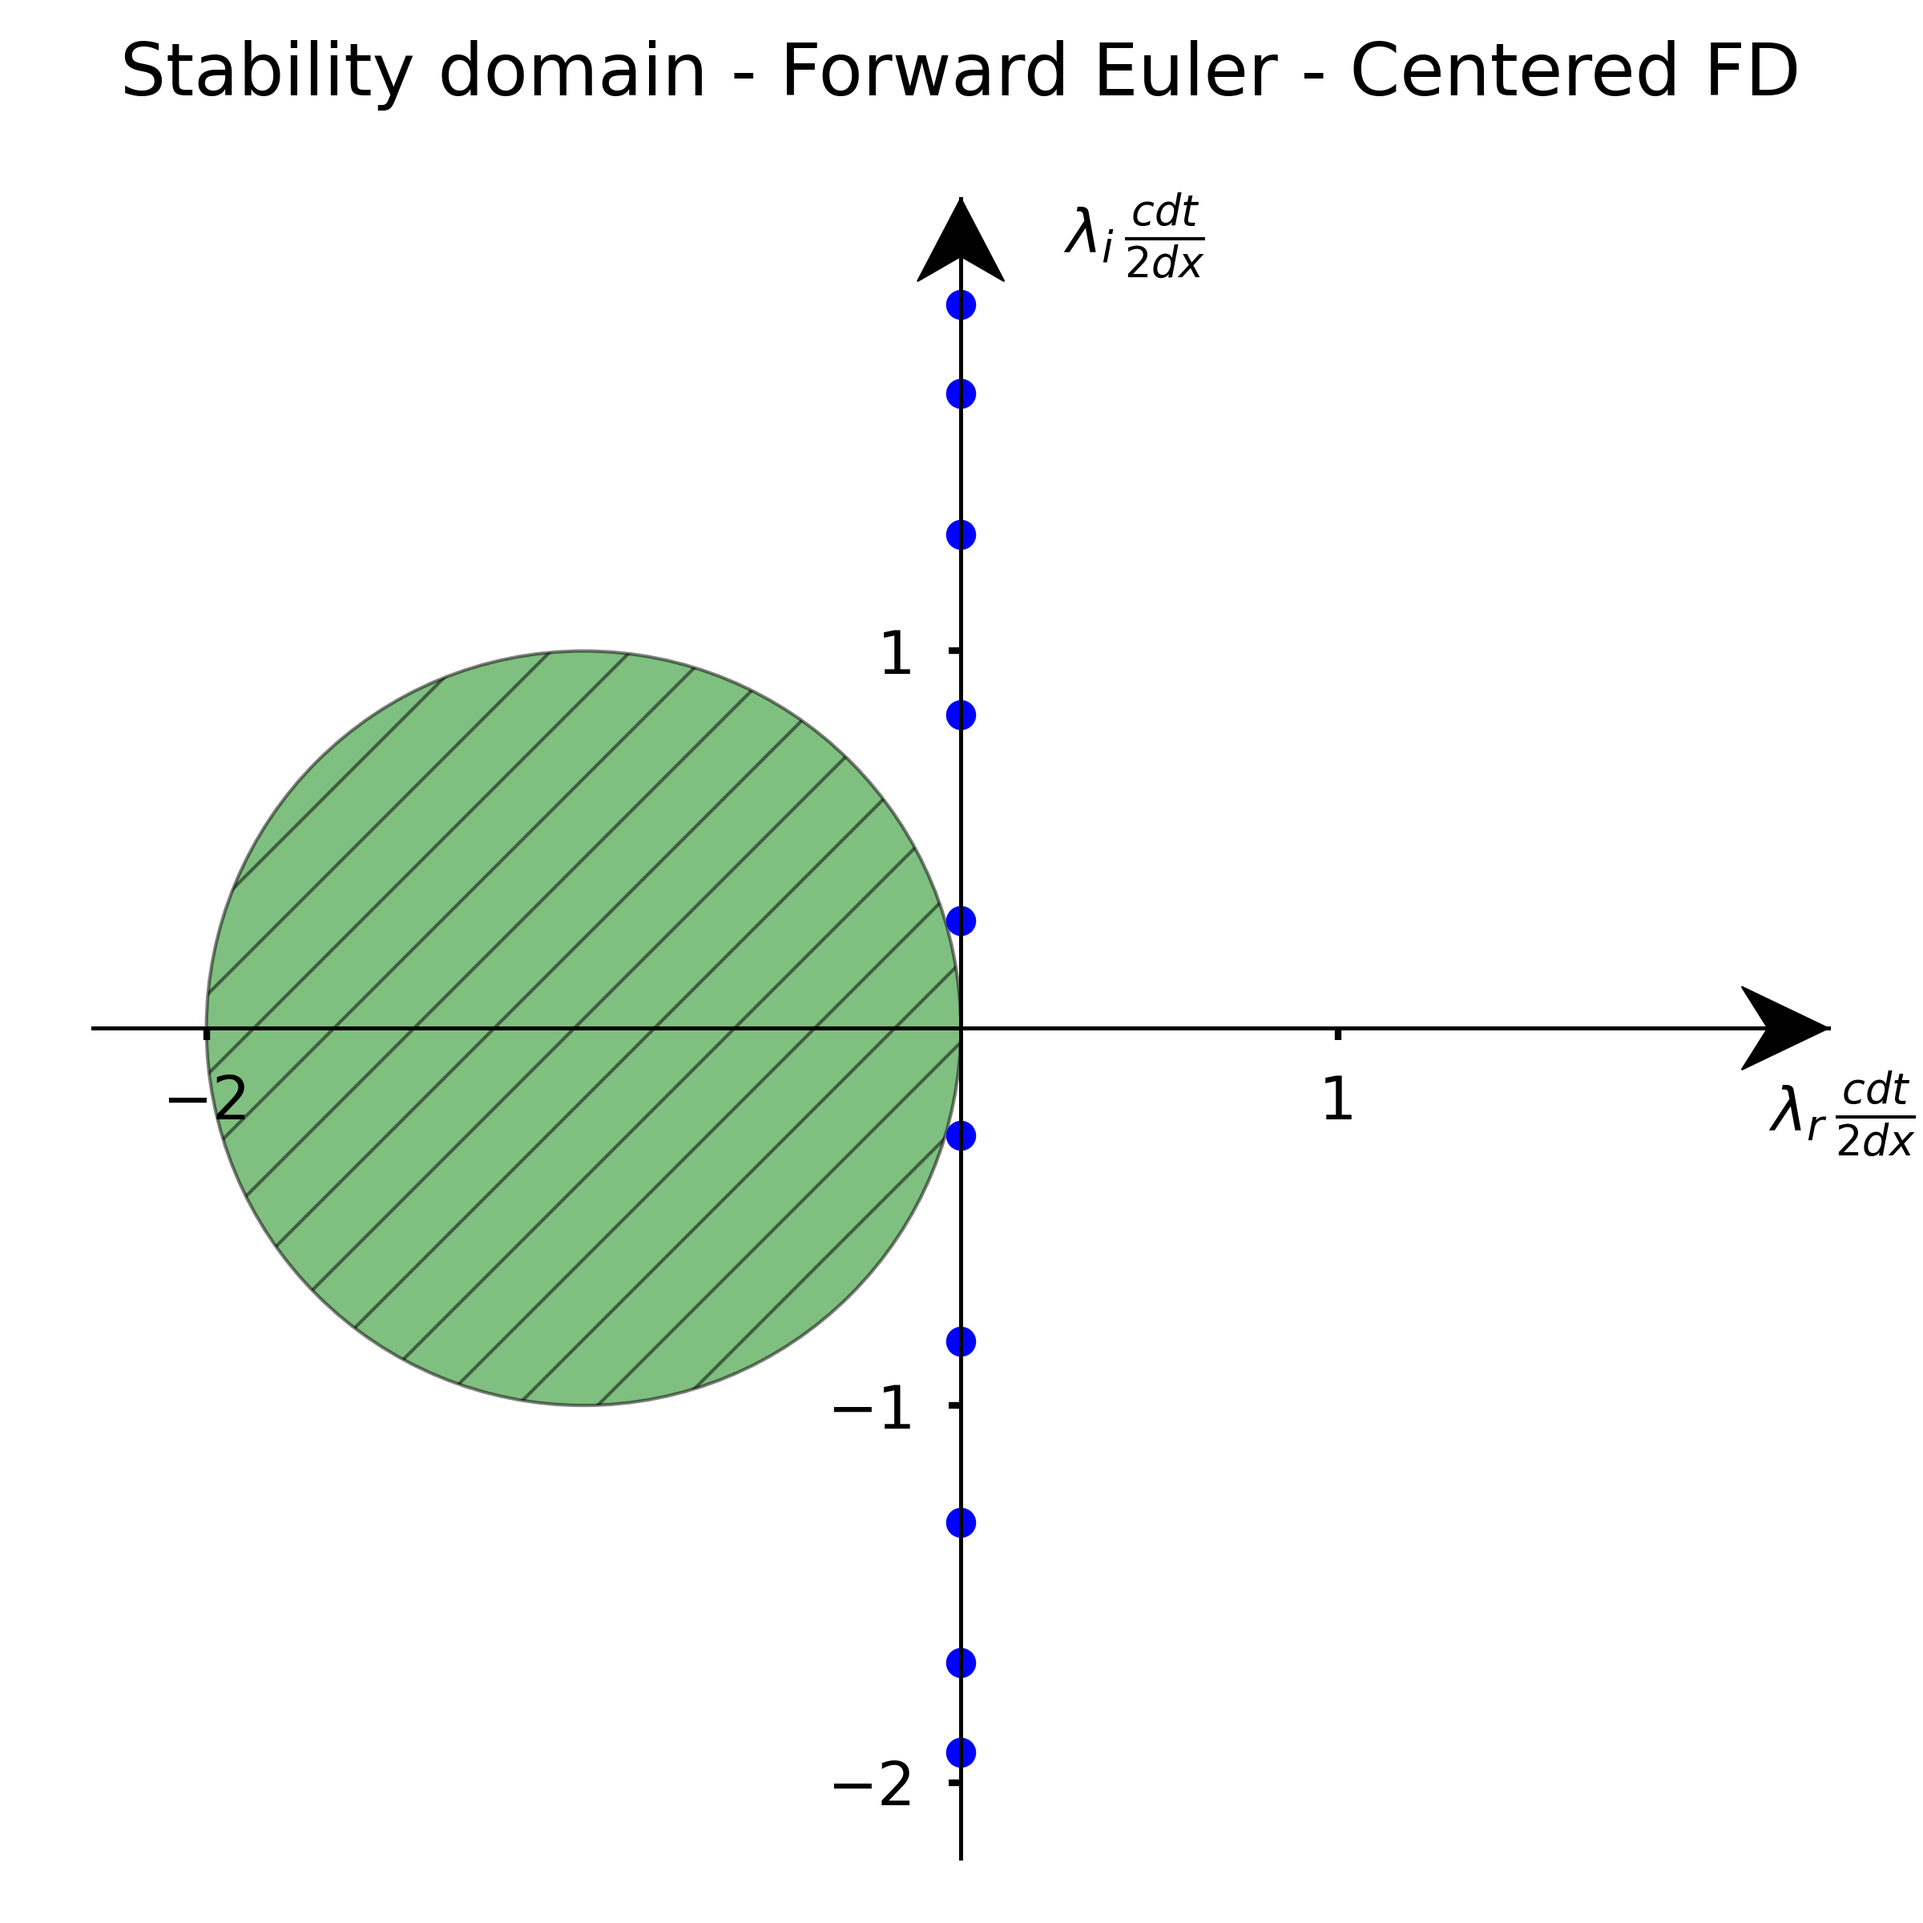
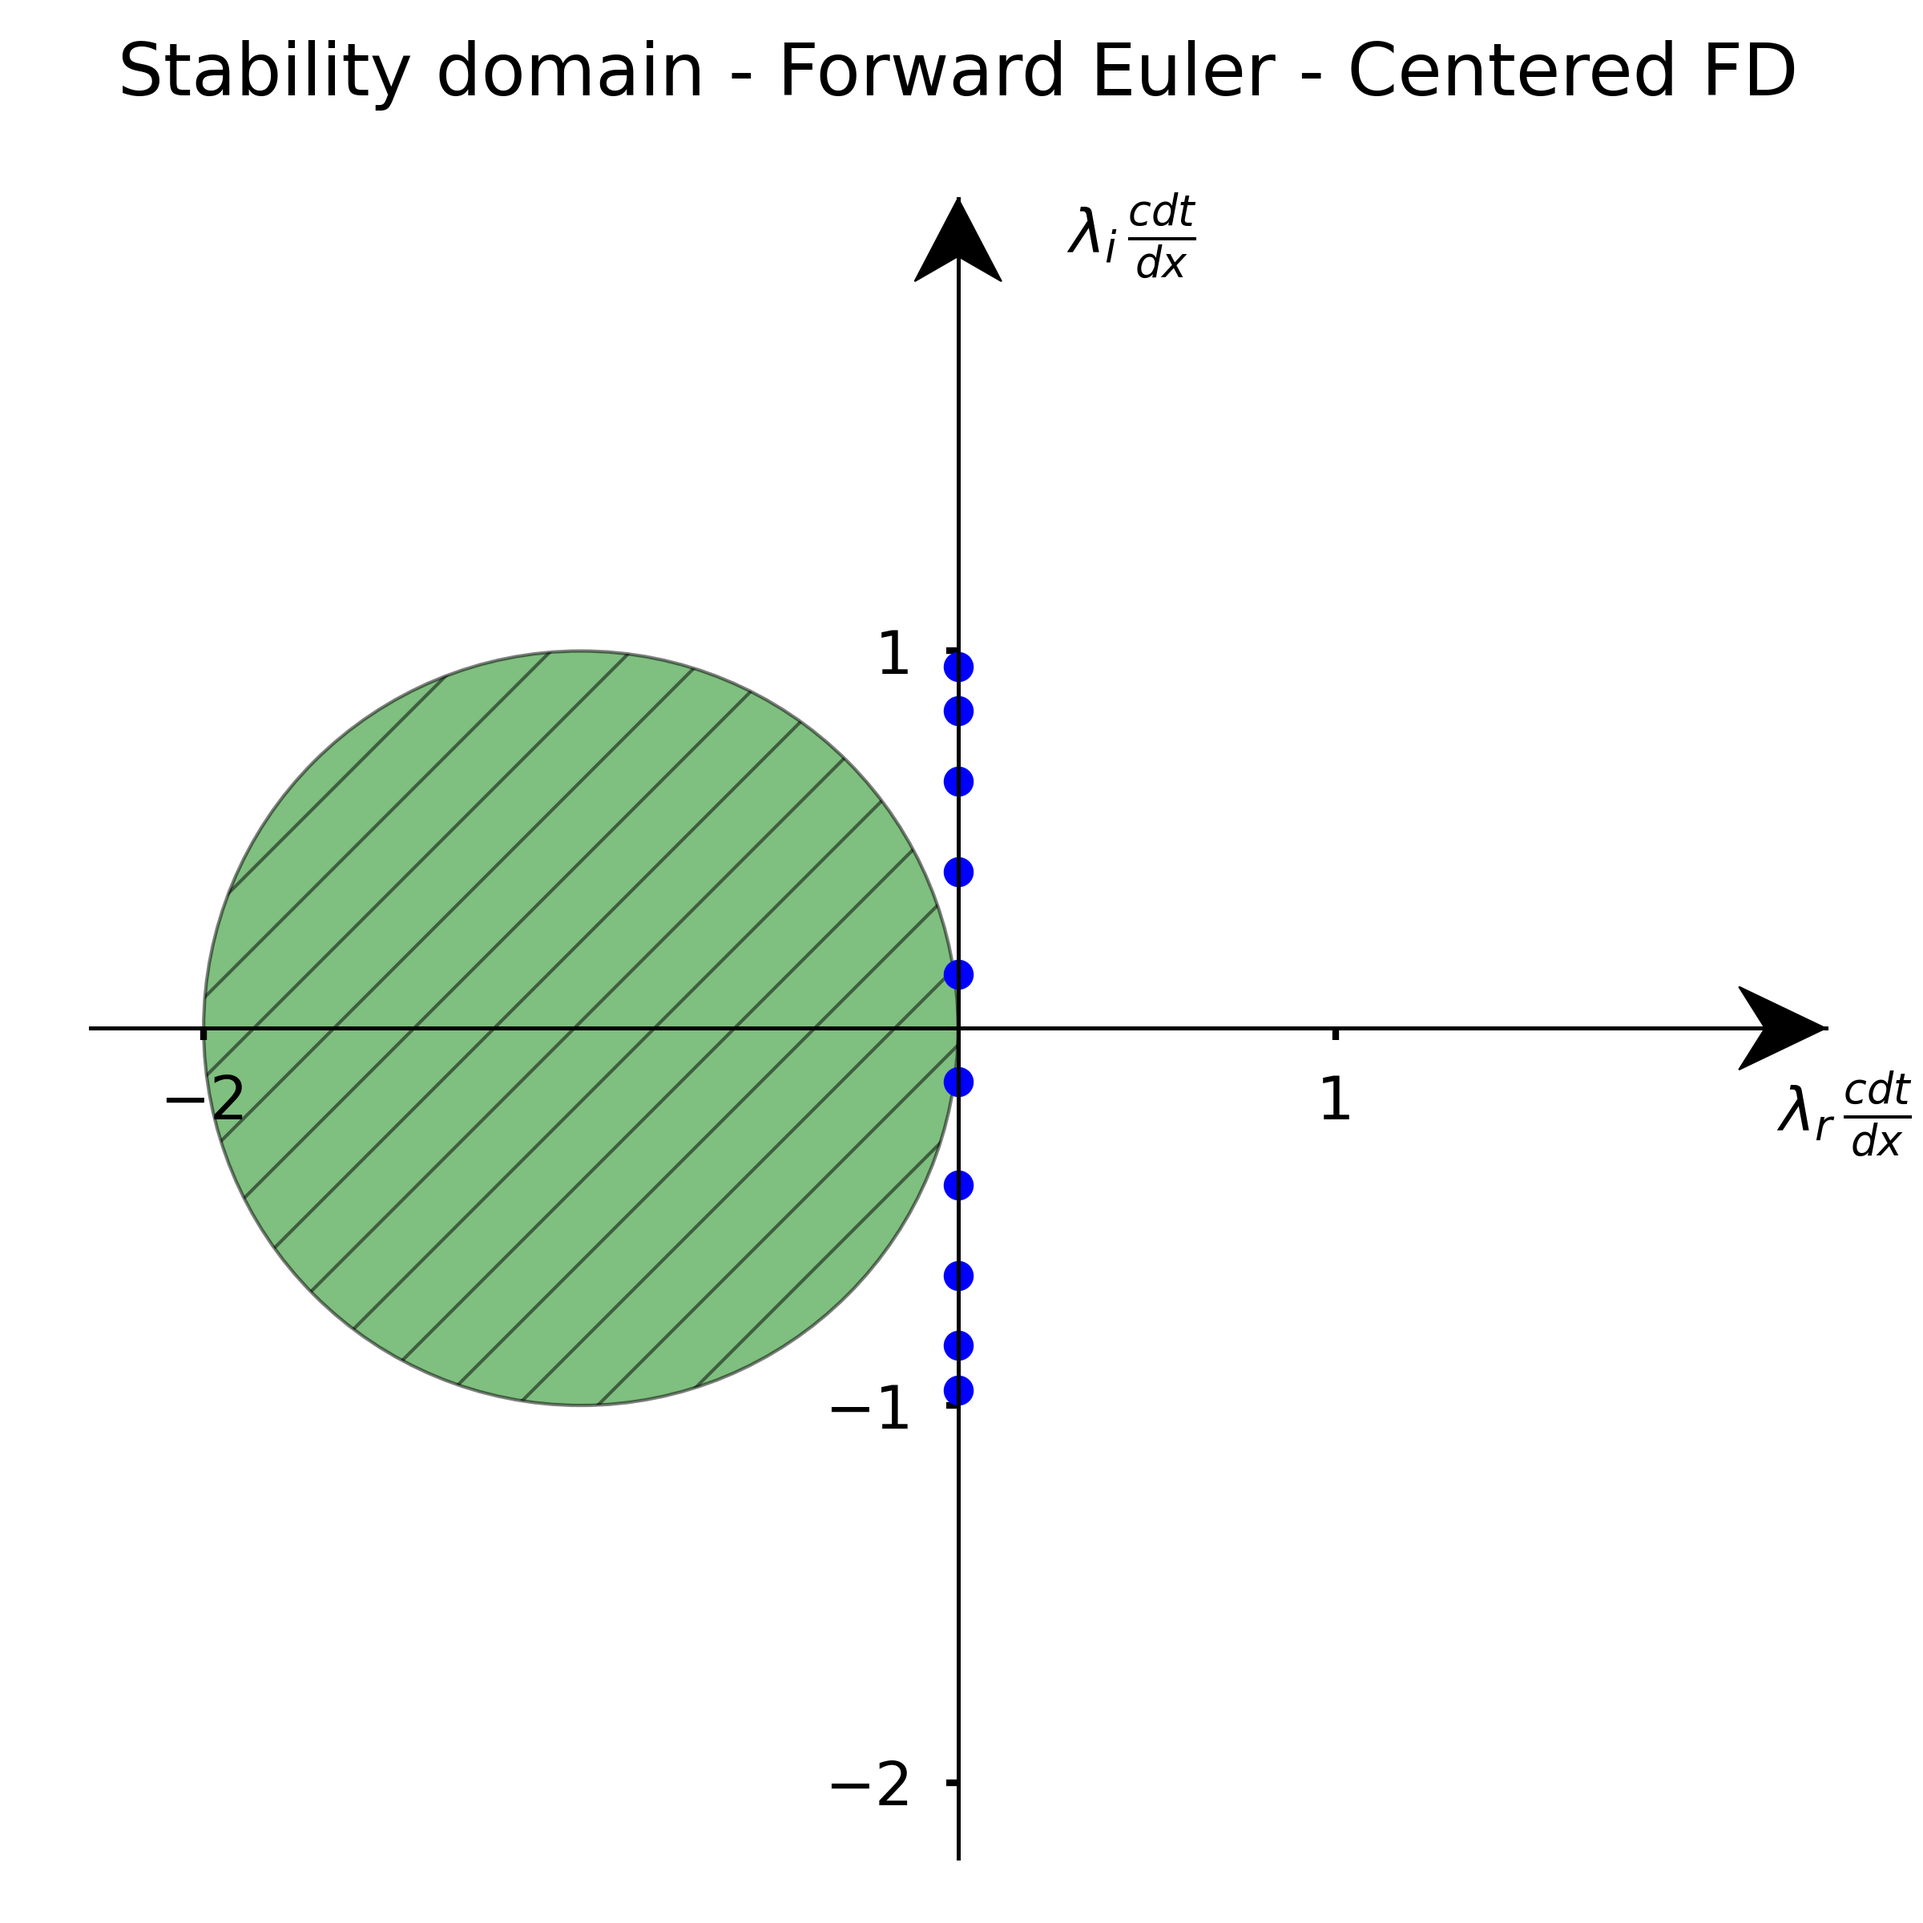
WIP

diff --git a/notebooks/drawings/supportPlots.md b/notebooks/drawings/supportPlots.md
@@ -13,6 +13,11 @@ jupyter:
     name: python3
 ---
 
+<!-- #region toc=true -->
+<h1>Table of Contents<span class="tocSkip"></span></h1>
+<div class="toc"><ul class="toc-item"><li><span><a href="#Forward-Euler" data-toc-modified-id="Forward-Euler-1"><span class="toc-item-num">1&nbsp;&nbsp;</span>Forward Euler</a></span></li><li><span><a href="#RK2" data-toc-modified-id="RK2-2"><span class="toc-item-num">2&nbsp;&nbsp;</span>RK2</a></span></li><li><span><a href="#Stability-map-for-forward-Euler---centered-FD" data-toc-modified-id="Stability-map-for-forward-Euler---centered-FD-3"><span class="toc-item-num">3&nbsp;&nbsp;</span>Stability map for forward Euler - centered FD</a></span></li><li><span><a href="#Logo" data-toc-modified-id="Logo-4"><span class="toc-item-num">4&nbsp;&nbsp;</span>Logo</a></span></li><li><span><a href="#Logo" data-toc-modified-id="Logo-5"><span class="toc-item-num">5&nbsp;&nbsp;</span>Logo</a></span></li></ul></div>
+<!-- #endregion -->
+
 ```python
 import numpy as np
 
@@ -169,8 +174,8 @@ ax.arrow(0., ymin, 0., ymax-ymin, fc='k', ec='k', lw=0.5,
          head_width=1./20.*(xmax-xmin), head_length=1./20.*(ymax-ymin),
          overhang = 0.3, length_includes_head= True, clip_on = False)
 
-ax.set_xlabel(r'$\lambda_r\, \frac{cdt}{2dx}$', horizontalalignment='right')
-ax.set_ylabel(r'$\lambda_i\, \frac{cdt}{2dx}$', rotation=0)
+ax.set_xlabel(r'$\lambda_r\, \frac{cdt}{dx}$', horizontalalignment='right')
+ax.set_ylabel(r'$\lambda_i\, \frac{cdt}{dx}$', rotation=0)
 
 ax.yaxis.set_label_coords(0.6, 0.95)
 ax.xaxis.set_label_coords(1.05, 0.475)
@@ -189,10 +194,152 @@ ax.tick_params(width=2, pad=10)
 m = 10
 k = np.arange(1,m+1)
 x = np.zeros(m)
-y = 2*np.cos(np.pi*k/(m+1))
+y = -np.cos(np.pi*k/(m+1))
 
 ax.plot(x,y,'o', color='blue')
 fig.savefig('../figures/PDEStabilityMap.png', dpi=300)
+```
+
+## Modified wave number
+
+```python
+# Let's configure the size of the figure
+# (in inches) to make it a square and bigger.
+fig, ax = plt.subplots(figsize=(8, 8))
+
+circle = plt.Circle((-1, 0), 1, ec='k', fc='green', alpha=0.5, hatch='/')
+
+ax.add_artist(circle)
+
+ax.set_aspect(1)
+
+ax.spines['left'].set_position('center')
+ax.spines['bottom'].set_position('center')
+ax.spines['right'].set_visible(False)
+ax.spines['top'].set_visible(False)
+
+xmin, xmax = -2.3, 2.3
+ymin, ymax = -2.2, 2.2
+
+ax.set_xlim(xmin ,xmax)
+ax.set_ylim(ymin, ymax)
+
+
+ax.arrow(xmin, 0., xmax-xmin, 0., fc='k', ec='k', lw=0.5,
+         head_width=1./20.*(ymax-ymin), head_length=1./20.*(xmax-xmin),
+         overhang = 0.3, length_includes_head= True, clip_on = False)
+
+ax.arrow(0., ymin, 0., ymax-ymin, fc='k', ec='k', lw=0.5,
+         head_width=1./20.*(xmax-xmin), head_length=1./20.*(ymax-ymin),
+         overhang = 0.3, length_includes_head= True, clip_on = False)
+
+ax.set_xlabel(r'$\lambda_r\, \frac{cdt}{dx}$', horizontalalignment='right')
+ax.set_ylabel(r'$\lambda_i\, \frac{cdt}{dx}$', rotation=0)
+
+ax.yaxis.set_label_coords(0.6, 0.95)
+ax.xaxis.set_label_coords(1.05, 0.475)
+
+ax.set_title('Stability domain - Forward Euler - Centered FD', y=1.05)
+
+
+ax.set_xticks((-2, 1))
+ax.set_yticks((-1, 1))
+
+
+ax.tick_params(width=2, pad=10)
+
+
+# Eigenvalues
+L = 1.
+nx = 10
+dx = L/(nx-1)
+
+m = 10
+k = 2*np.pi/L * np.arange(0,m)
+
+# Forward Euler - Centered FD
+x = np.zeros(m)
+y = -np.sin(k*dx)
+
+ax.plot(x,y,'o', color='blue')
+
+# Forward Euler - Forward FD
+lam = 1.-np.exp(1j*k*dx) 
+ax.plot(lam.real, lam.imag,'o', color='red')
+
+# Forward Euler - Backward FD
+lam = np.exp(-1j*k*dx)-1.
+ax.plot(lam.real, lam.imag,'o', color='black')
+
+fig.savefig('../figures/modified_k.png', dpi=300)
+```
+
+## Logo
+
+```python
+# Let's configure the size of the figure
+# (in inches) to make it a square and bigger.
+fig, ax = plt.subplots(figsize=(8, 8))
+
+circle = plt.Circle((-1, 0), 1, ec='k', fc='green', alpha=0.5, hatch='/')
+
+ax.add_artist(circle)
+
+ax.set_aspect(1)
+
+ax.spines['left'].set_position('center')
+ax.spines['bottom'].set_position('center')
+ax.spines['right'].set_visible(False)
+ax.spines['top'].set_visible(False)
+
+xmin, xmax = -2.3, 2.3
+ymin, ymax = -2.2, 2.2
+
+ax.set_xlim(xmin ,xmax)
+ax.set_ylim(ymin, ymax)
+
+
+ax.arrow(xmin, 0., xmax-xmin, 0., fc='k', ec='k', lw=0.5,
+         head_width=1./40.*(ymax-ymin), head_length=1./40.*(xmax-xmin),
+         overhang = 0.3, length_includes_head= True, clip_on = False)
+
+ax.arrow(0., ymin+0.2*(ymax-ymin), 0., 0.65*(ymax-ymin), fc='k', ec='k', lw=0.5,
+         head_width=1./40.*(xmax-xmin), head_length=1./40.*(ymax-ymin),
+         overhang = 0.3, length_includes_head= True, clip_on = False)
+
+ax.yaxis.set_label_coords(0.6, 0.95)
+ax.xaxis.set_label_coords(1.05, 0.475)
+
+ax.set_xticks((-2, 1))
+ax.set_yticks((-1, 1))
+ax.set_axis_off()
+
+ax.tick_params(width=0, pad=10)
+
+
+# Eigenvalues
+L = 1.
+nx = 10
+dx = L/(nx-1)
+
+m = 10
+k = 2*np.pi/L * np.arange(0,m)
+
+# Forward Euler - Centered FD
+x = np.zeros(m)
+y = -np.sin(k*dx)
+
+ax.plot(x,y,'o', color='blue')
+
+# Forward Euler - Forward FD
+lam = 1.-np.exp(1j*k*dx) 
+ax.plot(lam.real, lam.imag,'o', color='red')
+
+# Forward Euler - Backward FD
+lam = np.exp(-1j*k*dx)-1.
+ax.plot(lam.real, lam.imag,'o', color='black')
+
+fig.savefig('../figures/logo.png', dpi=300)
 ```
 
 ```python
